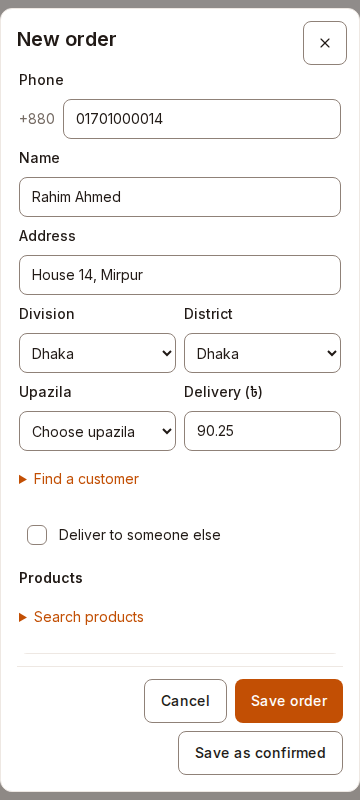
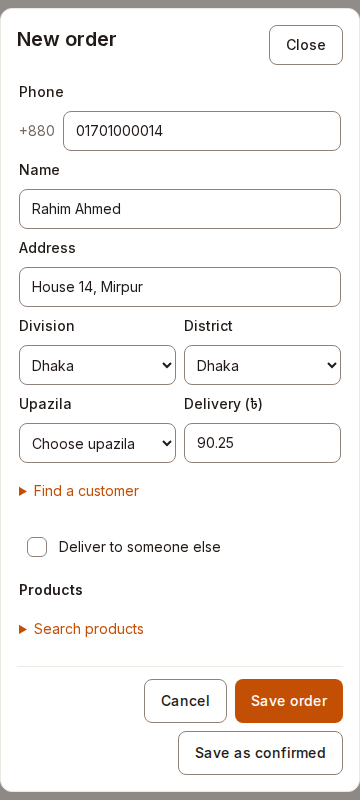
fix(web-7): simplify new order catalogue selection after review

diff --git a/apps/web/e2e/new-order.spec.ts b/apps/web/e2e/new-order.spec.ts
@@ -5,7 +5,6 @@ import { resolve } from 'node:path';
 import { expect, test, type Locator, type Page } from '@playwright/test';
 
 import type { DeliveryZoneListResponse } from '@dakly/contracts/delivery';
-import type { OrderCataloguePage, OrderCatalogueProduct } from '@dakly/contracts/orders';
 import { createDatabase } from '@dakly/db/client';
 
 const evidence = resolve(process.cwd(), '../../docs/design/evidence/ord-5-new-order');
@@ -159,126 +158,22 @@ test('creates a staff order with the zone charge, stock and computed COD', async
     const size = create.getByLabel('Size 1', { exact: true });
     await expect(product.getByRole('option', { name: /Cotton Panjabi/ })).toHaveCount(0);
     await create.getByRole('button', { name: 'Load more products' }).click();
-    const productDetail = `**/api/orders/catalogue/${productId}`;
-    await page.route(productDetail, async (route) => {
-      const response = await route.fetch();
-      const older: OrderCatalogueProduct = await response.json();
-      await route.fulfill({
-        response,
-        json: {
-          ...older,
-          variants: older.variants
-            .filter(({ id }) => id !== largerVariantId)
-            .map((variant) => ({ ...variant, pricePoisha: 100000, available: 4 })),
-        },
-      });
-    });
     await product.selectOption(productId);
-    await expect(size.getByRole('option', { name: 'M · 4 left' })).toHaveCount(1);
-    await expect(size.getByRole('option', { name: 'L · 2 left' })).toHaveCount(0);
-    await page.unroute(productDetail);
-    const catalogueSearch = create.getByText('Search products', { exact: true });
-    await catalogueSearch.click();
-    const search = create.getByLabel('Product name');
-    const refreshedList = page.waitForResponse((response) =>
-      response.url().includes('/orders/catalogue?search=Cotton+Panjabi'),
-    );
-    await search.fill('Cotton Panjabi');
-    await refreshedList;
-    await expect(size.getByRole('option', { name: 'M · 5 left' })).toHaveCount(1);
-    await page.route(productDetail, (route) => route.fulfill({ status: 503 }));
-    const failedDetail = page.waitForResponse(
-      (response) =>
-        response.url().endsWith(`/api/orders/catalogue/${productId}`) && response.status() === 503,
-    );
-    const beforeSizing = page.waitForResponse((response) =>
-      response.url().includes('/orders/catalogue?search=Unlisted+product'),
-    );
-    await search.fill('Unlisted product');
-    expect(await (await beforeSizing).json()).toMatchObject({ items: [] });
-    await expect(product).toHaveValue(productId);
-    await expect(size.getByRole('option', { name: 'M · 5 left' })).toHaveCount(1);
     await expect(size).toHaveValue('');
     await create.getByRole('button', { name: 'Save order' }).click();
     await expect(size).toHaveAttribute('aria-invalid', 'true');
     await expect(size.getByRole('option', { name: 'M · 5 left' })).toHaveCount(1);
     await size.selectOption(variantId);
-    await failedDetail;
-    await page.unroute(productDetail);
-    await search.clear();
-    await catalogueSearch.click();
     await expect(size).toHaveAttribute('aria-invalid', 'false');
     await expect(create.getByText('5 in stock')).toBeVisible();
     const cod = create.getByText(/^Cash on delivery/);
     await expect(cod.getByText('৳1,310', { exact: true })).toBeVisible();
     await create.getByRole('button', { name: 'Add product' }).click();
     await expect(create.getByText('Cash on delivery')).toHaveCount(0);
-    let releaseDetail!: () => void;
-    const holdDetail = new Promise<void>((resolve) => {
-      releaseDetail = resolve;
-    });
-    await page.route(productDetail, async (route) => {
-      const response = await route.fetch();
-      const data: OrderCatalogueProduct = await response.json();
-      await holdDetail;
-      await route.fulfill({
-        response,
-        json: { ...data, variants: data.variants.filter(({ id }) => id !== variantId) },
-      });
-    });
-    const detailRequest = page.waitForRequest((request) =>
-      request.url().endsWith(`/api/orders/catalogue/${productId}`),
-    );
-    const delayedDetail = page.waitForResponse((response) =>
-      response.url().endsWith(`/api/orders/catalogue/${productId}`),
-    );
-    try {
-      await create.getByLabel('Product 2', { exact: true }).selectOption(productId);
-      await detailRequest;
-      await catalogueSearch.click();
-      const laterSearch = page.waitForResponse((response) =>
-        response.url().includes('/orders/catalogue?search=Panjabi'),
-      );
-      await search.fill('Panjabi');
-      await laterSearch;
-    } finally {
-      releaseDetail();
-    }
-    await delayedDetail;
-    await page.unroute(productDetail);
     await create.getByRole('button', { name: 'Remove' }).last().click();
-    await expect(size).toHaveValue(variantId);
-    await expect(cod.getByText('৳1,310', { exact: true })).toBeVisible();
-
-    const catalogueUpdate = /\/api\/orders\/catalogue\?search=Cotton\+Pa(n)?$/;
-    await page.route(catalogueUpdate, async (route) => {
-      const response = await route.fetch();
-      const result: OrderCataloguePage = await response.json();
-      const pricePoisha = route.request().url().endsWith('Pan') ? 0 : 150000;
-      await route.fulfill({
-        response,
-        json: {
-          ...result,
-          items: result.items.map((item) => ({
-            ...item,
-            variants: item.variants.map((variant) =>
-              variant.id === variantId ? { ...variant, pricePoisha } : variant,
-            ),
-          })),
-        },
-      });
-    });
-    await search.fill('Cotton Pa');
-    await expect(cod.getByText('৳1,560', { exact: true })).toBeVisible();
-    await search.fill('Cotton Pan');
-    await expect(size).toHaveValue('');
-    await expect(cod).toHaveCount(0);
-    await create.getByRole('button', { name: 'Save order' }).click();
-    await expect(size).toHaveAttribute('aria-invalid', 'true');
-    await page.unroute(catalogueUpdate);
-    await search.fill('Cotton Panj');
-    await size.selectOption(variantId);
-
+    const catalogueSearch = create.getByText('Search products', { exact: true });
+    await catalogueSearch.click();
+    const search = create.getByLabel('Product name');
     const catalogueFiltered = page.waitForResponse((response) =>
       response.url().includes('/orders/catalogue?search=Missing+product'),
     );

diff --git a/apps/web/src/features/orders/components/order-product-fields.tsx b/apps/web/src/features/orders/components/order-product-fields.tsx
@@ -1,5 +1,5 @@
 import { Plus } from 'lucide-react';
-import { useEffect, useId, useState } from 'react';
+import { useId, useState } from 'react';
 import type { FieldArrayWithId, UseFormRegister } from 'react-hook-form';
 
 import type { OrderEditorValues, OrderCatalogueProduct } from '@dakly/contracts/orders';
@@ -8,7 +8,7 @@ import { FormField } from '@dakly/ui/form-field';
 import { Input } from '@dakly/ui/input';
 import { Label } from '@dakly/ui/label';
 
-import { useOrderCatalogue, useSelectedCatalogueProduct } from '../api/order-catalogue';
+import { useOrderCatalogue, useOrderCatalogueProducts } from '../api/order-catalogue';
 import { formatMoney } from '@/lib/format-money';
 
 export type VariantChoice = {
@@ -45,9 +45,6 @@ export function OrderProductFields({
   const pages = products.data?.pages ?? [];
   const catalogue = pages.flatMap((page) => page.items);
   const choices = orderVariantChoices(catalogue);
-  const requestedAt = new Map(
-    pages.flatMap((page) => page.items.map(({ id }) => [id, page.requestedAt] as const)),
-  );
   return (
     <fieldset className="space-y-2">
       <legend className="font-semibold">Products</legend>
@@ -62,7 +59,7 @@ export function OrderProductFields({
           onRemove: fields.length > 1 ? onRemove : undefined,
         };
         return isNew ? (
-          <NewOrderProductLine key={field.id} {...{ catalogue, requestedAt, ...line }} />
+          <NewOrderProductLine key={field.id} {...{ catalogue, ...line }} />
         ) : (
           <OrderProductLine key={field.id} choices={choices} {...line} />
         );
@@ -76,7 +73,11 @@ export function OrderProductFields({
           Load more products
         </Button>
       )}
-      <Button variant="secondary" disabled={fields.length >= 100} onClick={onAdd}>
+      <Button
+        variant={isNew ? 'link' : 'secondary'}
+        disabled={fields.length >= 100}
+        onClick={onAdd}
+      >
         {isNew && <Plus aria-hidden="true" size={16} strokeWidth={1.75} />}
         Add product
       </Button>
@@ -156,7 +157,6 @@ const selectClass =
 
 function NewOrderProductLine({
   catalogue,
-  requestedAt,
   ids,
   index,
   variants,
@@ -165,17 +165,17 @@ function NewOrderProductLine({
   onRemove,
 }: Omit<ProductLineProps, 'choices'> & {
   catalogue: OrderCatalogueProduct[];
-  requestedAt: Map<string, number>;
 }) {
-  const [productId, setProductId] = useState('');
-  const listed = catalogue.find(({ id }) => id === productId);
-  const product = useSelectedCatalogueProduct(productId, listed, requestedAt.get(productId));
+  const [chosen, setChosen] = useState<OrderCatalogueProduct>();
+  const inCatalogue = catalogue.some(({ id }) => id === chosen?.id);
+  const [detail] = useOrderCatalogueProducts(chosen && !inCatalogue ? [chosen.id] : []);
+  const product = detail?.data ?? chosen;
   const id = ids[index] ?? '';
-  const productChoices = product ? orderVariantChoices([product]) : {};
+  const productChoices = chosen ? orderVariantChoices([chosen]) : {};
   const selected = variants[id] ?? productChoices[id];
   const isTaken = (variantId: string) => variantId !== id && ids.includes(variantId);
   function chooseProduct(next: OrderCatalogueProduct | undefined) {
-    setProductId(next?.id ?? '');
+    setChosen(next);
     onChoose(index, '');
   }
   return (
@@ -183,7 +183,8 @@ function NewOrderProductLine({
       <div className="grid grid-cols-2 items-start gap-2 sm:grid-cols-[2fr_1.5fr_4rem_1fr]">
         <ProductChoiceField {...{ catalogue, product, index, isTaken }} onChange={chooseProduct} />
         <OrderSizeField
-          {...{ id, index, product, isTaken }}
+          {...{ id, index, isTaken }}
+          product={chosen}
           choose={(nextId) => onChoose(index, nextId, productChoices[nextId])}
         />
         <FormField name={`items.${index}.quantity`} label="Qty">
@@ -274,10 +275,6 @@ function OrderSizeField({
   const options = product?.variants.filter(({ pricePoisha }) => pricePoisha > 0) ?? [];
   const selected = options.find((variant) => variant.id === id);
   const tracked = product?.isStockTracked;
-  const missingSize = Boolean(id && product && !selected);
-  useEffect(() => {
-    if (missingSize) choose('');
-  }, [choose, missingSize]);
   return (
     <FormField
       name={`items.${index}.variantId`}
@@ -290,7 +287,6 @@ function OrderSizeField({
           aria-label={`Size ${index + 1}`}
           className={selectClass}
           value={selected?.id ?? ''}
-          aria-invalid={props['aria-invalid'] || missingSize}
           disabled={!options.length}
           onChange={(event) => choose(event.target.value)}
         >

diff --git a/apps/web/src/features/orders/api/order-catalogue.ts b/apps/web/src/features/orders/api/order-catalogue.ts
@@ -1,11 +1,4 @@
-import {
-  useInfiniteQuery,
-  useQueries,
-  useQuery,
-  useQueryClient,
-  type QueryFunctionContext,
-} from '@tanstack/react-query';
-import { useEffect } from 'react';
+import { useInfiniteQuery, useQueries, useQuery } from '@tanstack/react-query';
 
 import type {
   OrderCataloguePage,
@@ -23,44 +16,15 @@ export function useOrderCatalogue(search?: string) {
   return useInfiniteQuery({
     queryKey: [...productsKeys.all, contextTag, 'order-catalogue', search],
     initialPageParam: '',
-    queryFn: async ({ pageParam, signal }) => {
+    queryFn: ({ pageParam, signal }) => {
       const params = new URLSearchParams();
       if (search) params.set('search', search);
       if (pageParam) params.set('cursor', pageParam);
-      const requestedAt = performance.now();
-      const page = await request<OrderCataloguePage>(`/orders/catalogue?${params}`, { signal });
-      return { ...page, requestedAt };
+      return request<OrderCataloguePage>(`/orders/catalogue?${params}`, { signal });
     },
     getNextPageParam: (page) => page.nextCursor ?? undefined,
     enabled: Boolean(contextTag && data?.currentStore?.canEditOrders),
   });
-}
-
-const catalogueProductKey = (contextTag: string | undefined, id: string) => [
-  ...productsKeys.all,
-  contextTag,
-  'order-catalogue-product',
-  id,
-];
-
-type ProductSnapshot = OrderCatalogueProduct & { requestedAt: number };
-
-export function useSelectedCatalogueProduct(
-  id: string,
-  product: OrderCatalogueProduct | undefined,
-  requestedAt = 0,
-) {
-  const { contextTag } = useStoreRequest();
-  const cache = useQueryClient();
-  const [selected] = useOrderCatalogueProducts(id ? [id] : []);
-  useEffect(() => {
-    if (!product) return;
-    const key = catalogueProductKey(contextTag, product.id);
-    if (requestedAt > (cache.getQueryData<ProductSnapshot>(key)?.requestedAt ?? -1))
-      cache.setQueryData(key, { ...product, requestedAt });
-  }, [cache, contextTag, product, requestedAt]);
-  const latest = selected?.data;
-  return (latest?.requestedAt ?? -1) > requestedAt ? latest : (product ?? latest);
 }
 
 export function useOrderCatalogueProducts(ids: readonly string[]) {
@@ -68,13 +32,9 @@ export function useOrderCatalogueProducts(ids: readonly string[]) {
   const { data } = useSessionContext();
   return useQueries({
     queries: ids.map((id) => ({
-      queryKey: catalogueProductKey(contextTag, id),
-      queryFn: async ({ client, queryKey, signal }: QueryFunctionContext) => {
-        const requestedAt = performance.now();
-        const product = await request<OrderCatalogueProduct>(`/orders/catalogue/${id}`, { signal });
-        const latest = client.getQueryData<ProductSnapshot>(queryKey);
-        return latest && latest.requestedAt > requestedAt ? latest : { ...product, requestedAt };
-      },
+      queryKey: [...productsKeys.all, contextTag, 'order-catalogue-product', id],
+      queryFn: ({ signal }: { signal: AbortSignal }) =>
+        request<OrderCatalogueProduct>(`/orders/catalogue/${id}`, { signal }),
       enabled: Boolean(contextTag && data?.currentStore?.canEditOrders),
     })),
   });

diff --git a/apps/web/src/features/orders/components/order-editor-dialog.tsx b/apps/web/src/features/orders/components/order-editor-dialog.tsx
@@ -1,6 +1,5 @@
 import { zodResolver } from '@hookform/resolvers/zod';
-import { X } from 'lucide-react';
-import { useRef, type FormEvent } from 'react';
+import { useRef, useState, type FormEvent } from 'react';
 import {
   FormProvider,
   useFieldArray,
@@ -82,17 +81,8 @@ export function NewOrderDialog({ onClose, onSaved }: NewOrderDialogProps) {
       open
       onClose={onClose}
       closeDisabled={busy}
-      className="max-h-[calc(100dvh-1rem)] max-w-160 p-4 open:flex open:flex-col sm:p-6 [&>div:first-child>button]:hidden"
+      className="max-h-[calc(100dvh-1rem)] max-w-160 p-4 open:flex open:flex-col sm:p-6"
     >
-      <Button
-        aria-label="Close dialog"
-        className="absolute top-3 right-3 min-h-11 min-w-11 px-2 sm:min-h-10 sm:min-w-10"
-        variant="secondary"
-        disabled={busy}
-        onClick={onClose}
-      >
-        <X aria-hidden="true" size={16} strokeWidth={1.75} />
-      </Button>
       <FormProvider {...form}>
         <form className="flex min-h-0 flex-col gap-3" onSubmit={submit}>
           <div className="min-h-0 overflow-y-auto px-0.5">
@@ -175,6 +165,7 @@ type ItemsAndAmountsProps = { order?: OrderDetail };
 
 function ItemsAndAmounts({ order }: ItemsAndAmountsProps) {
   const productIds = useRef<Record<string, string>>({});
+  const [pickedVariants, setPickedVariants] = useState<Record<string, VariantChoice>>({});
   const { control, register, setValue, formState } = useFormContext<OrderEditorValues>();
   const { fields, append, remove } = useFieldArray({ name: 'items', control });
   const items = useWatch({ control, name: 'items' }) ?? [];
@@ -185,7 +176,9 @@ function ItemsAndAmounts({ order }: ItemsAndAmountsProps) {
   const selectedProducts = useOrderCatalogueProducts([
     ...new Set(items.flatMap(({ variantId }) => productIds.current[variantId] ?? [])),
   ]).flatMap(({ data }) => data ?? []);
-  const variants = draftVariantChoices(selectedProducts, order, stock.data);
+  const variants = order
+    ? draftVariantChoices(selectedProducts, order, stock.data)
+    : pickedVariants;
 
   return (
     <>
@@ -198,7 +191,8 @@ function ItemsAndAmounts({ order }: ItemsAndAmountsProps) {
         onAdd={() => append(newLine)}
         onRemove={remove}
         onChoose={(index, id, variant) => {
-          if (variant?.productId) productIds.current[id] = variant.productId;
+          if (order && variant?.productId) productIds.current[id] = variant.productId;
+          if (!order && variant) setPickedVariants((previous) => ({ ...previous, [id]: variant }));
           const savedLine = order?.items.find((item) => item.variantId === id);
           setValue(`items.${index}.lineDiscountPoisha`, savedLine?.lineDiscountPoisha ?? 0, {
             shouldDirty: true,

diff --git a/packages/ui/src/button.tsx b/packages/ui/src/button.tsx
@@ -11,6 +11,7 @@ const buttonVariants = cva(
         primary: 'bg-action text-on-primary hover:bg-action-hover',
         secondary: 'border border-input-border bg-surface text-text hover:bg-surface-muted',
         danger: 'bg-danger text-on-primary hover:bg-danger-hover',
+        link: 'px-0 text-action hover:underline',
       },
     },
     defaultVariants: { variant: 'primary' },
